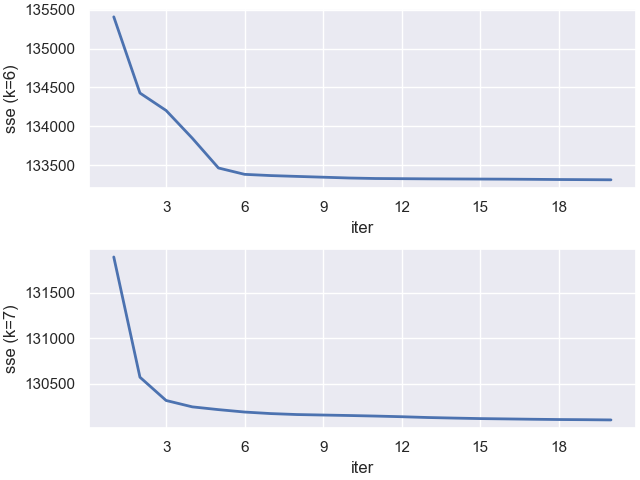
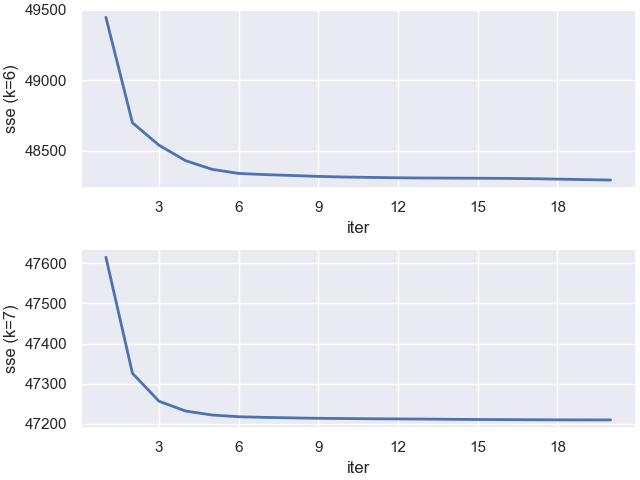
complete

diff --git a/assignments/assignment_4/src/main.py b/assignments/assignment_4/src/main.py
@@ -29,7 +29,7 @@ def load_args():
     parser.add_argument('--kmeans', default=1, type=int,
                         help='set to 1 if we desire running kmeans, otherwise 0')
 
-    parser.add_argument('--pca_retain_ratio', default=0.8, type=float)
+    parser.add_argument('--pca_retain_ratio', default=0.9, type=float)
     parser.add_argument('--kmeans_max_k', default=11, type=int)
     parser.add_argument('--kmeans_max_iter', default=20, type=int)
     parser.add_argument('--root_dir', default='../data/', type=str)
@@ -183,7 +183,7 @@ if __name__ == '__main__':
 
     print("X_train shape before: ", x_train.shape)
 
-    if args.pca == 0:
+    if args.pca == 1:
         pca = PCA(args.pca_retain_ratio)
         pca.fit(x_train)
         x_train = pca.transform(x_train)
